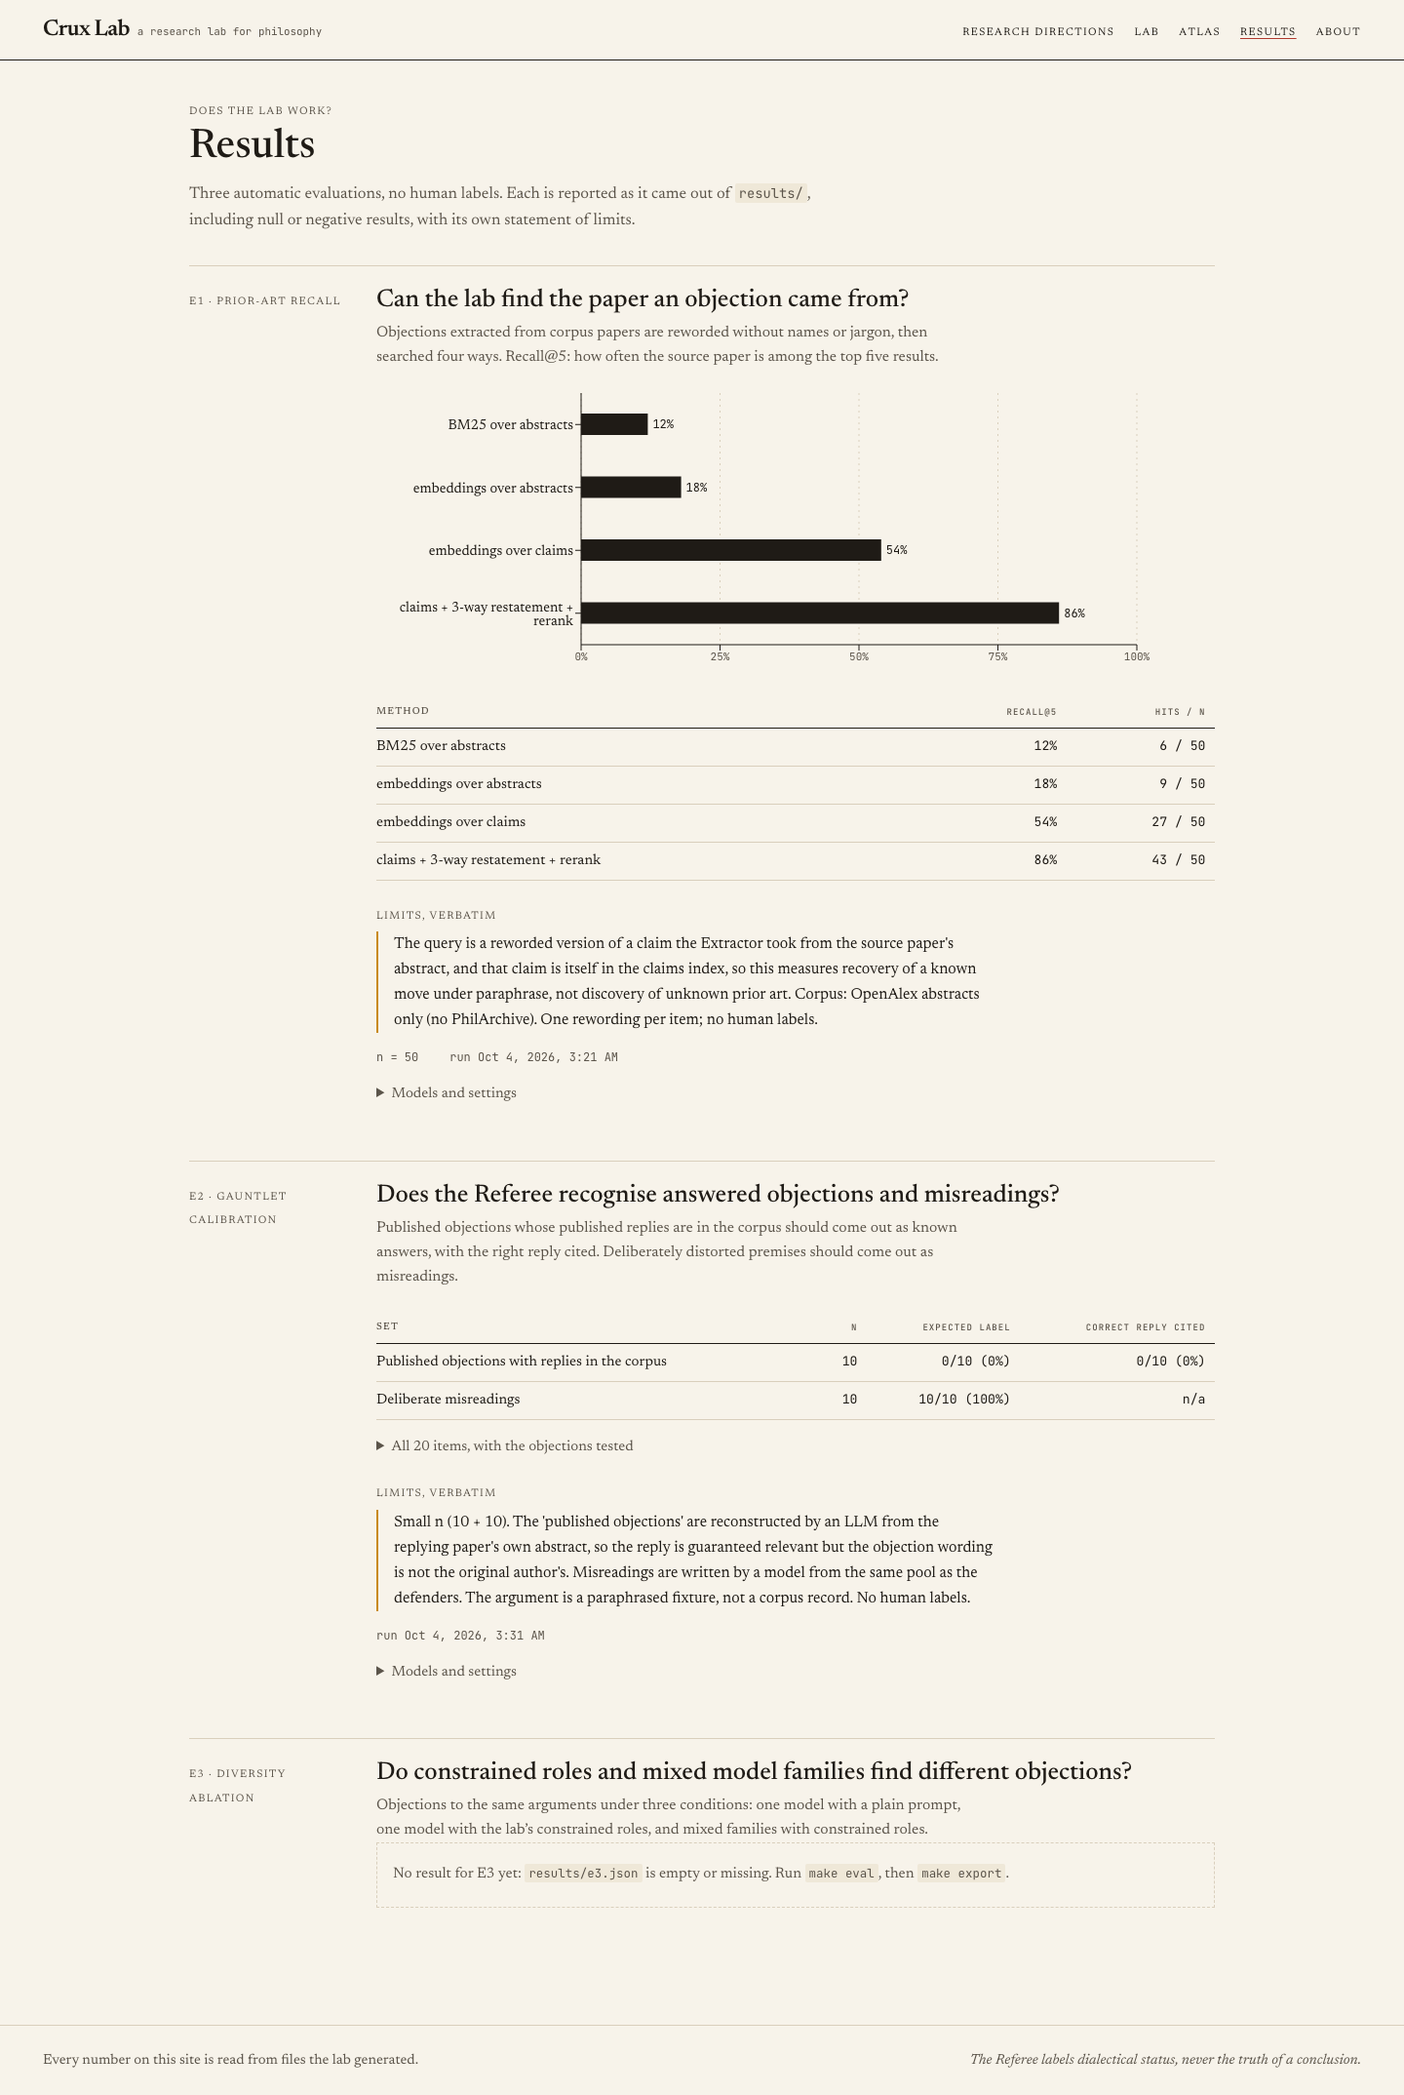
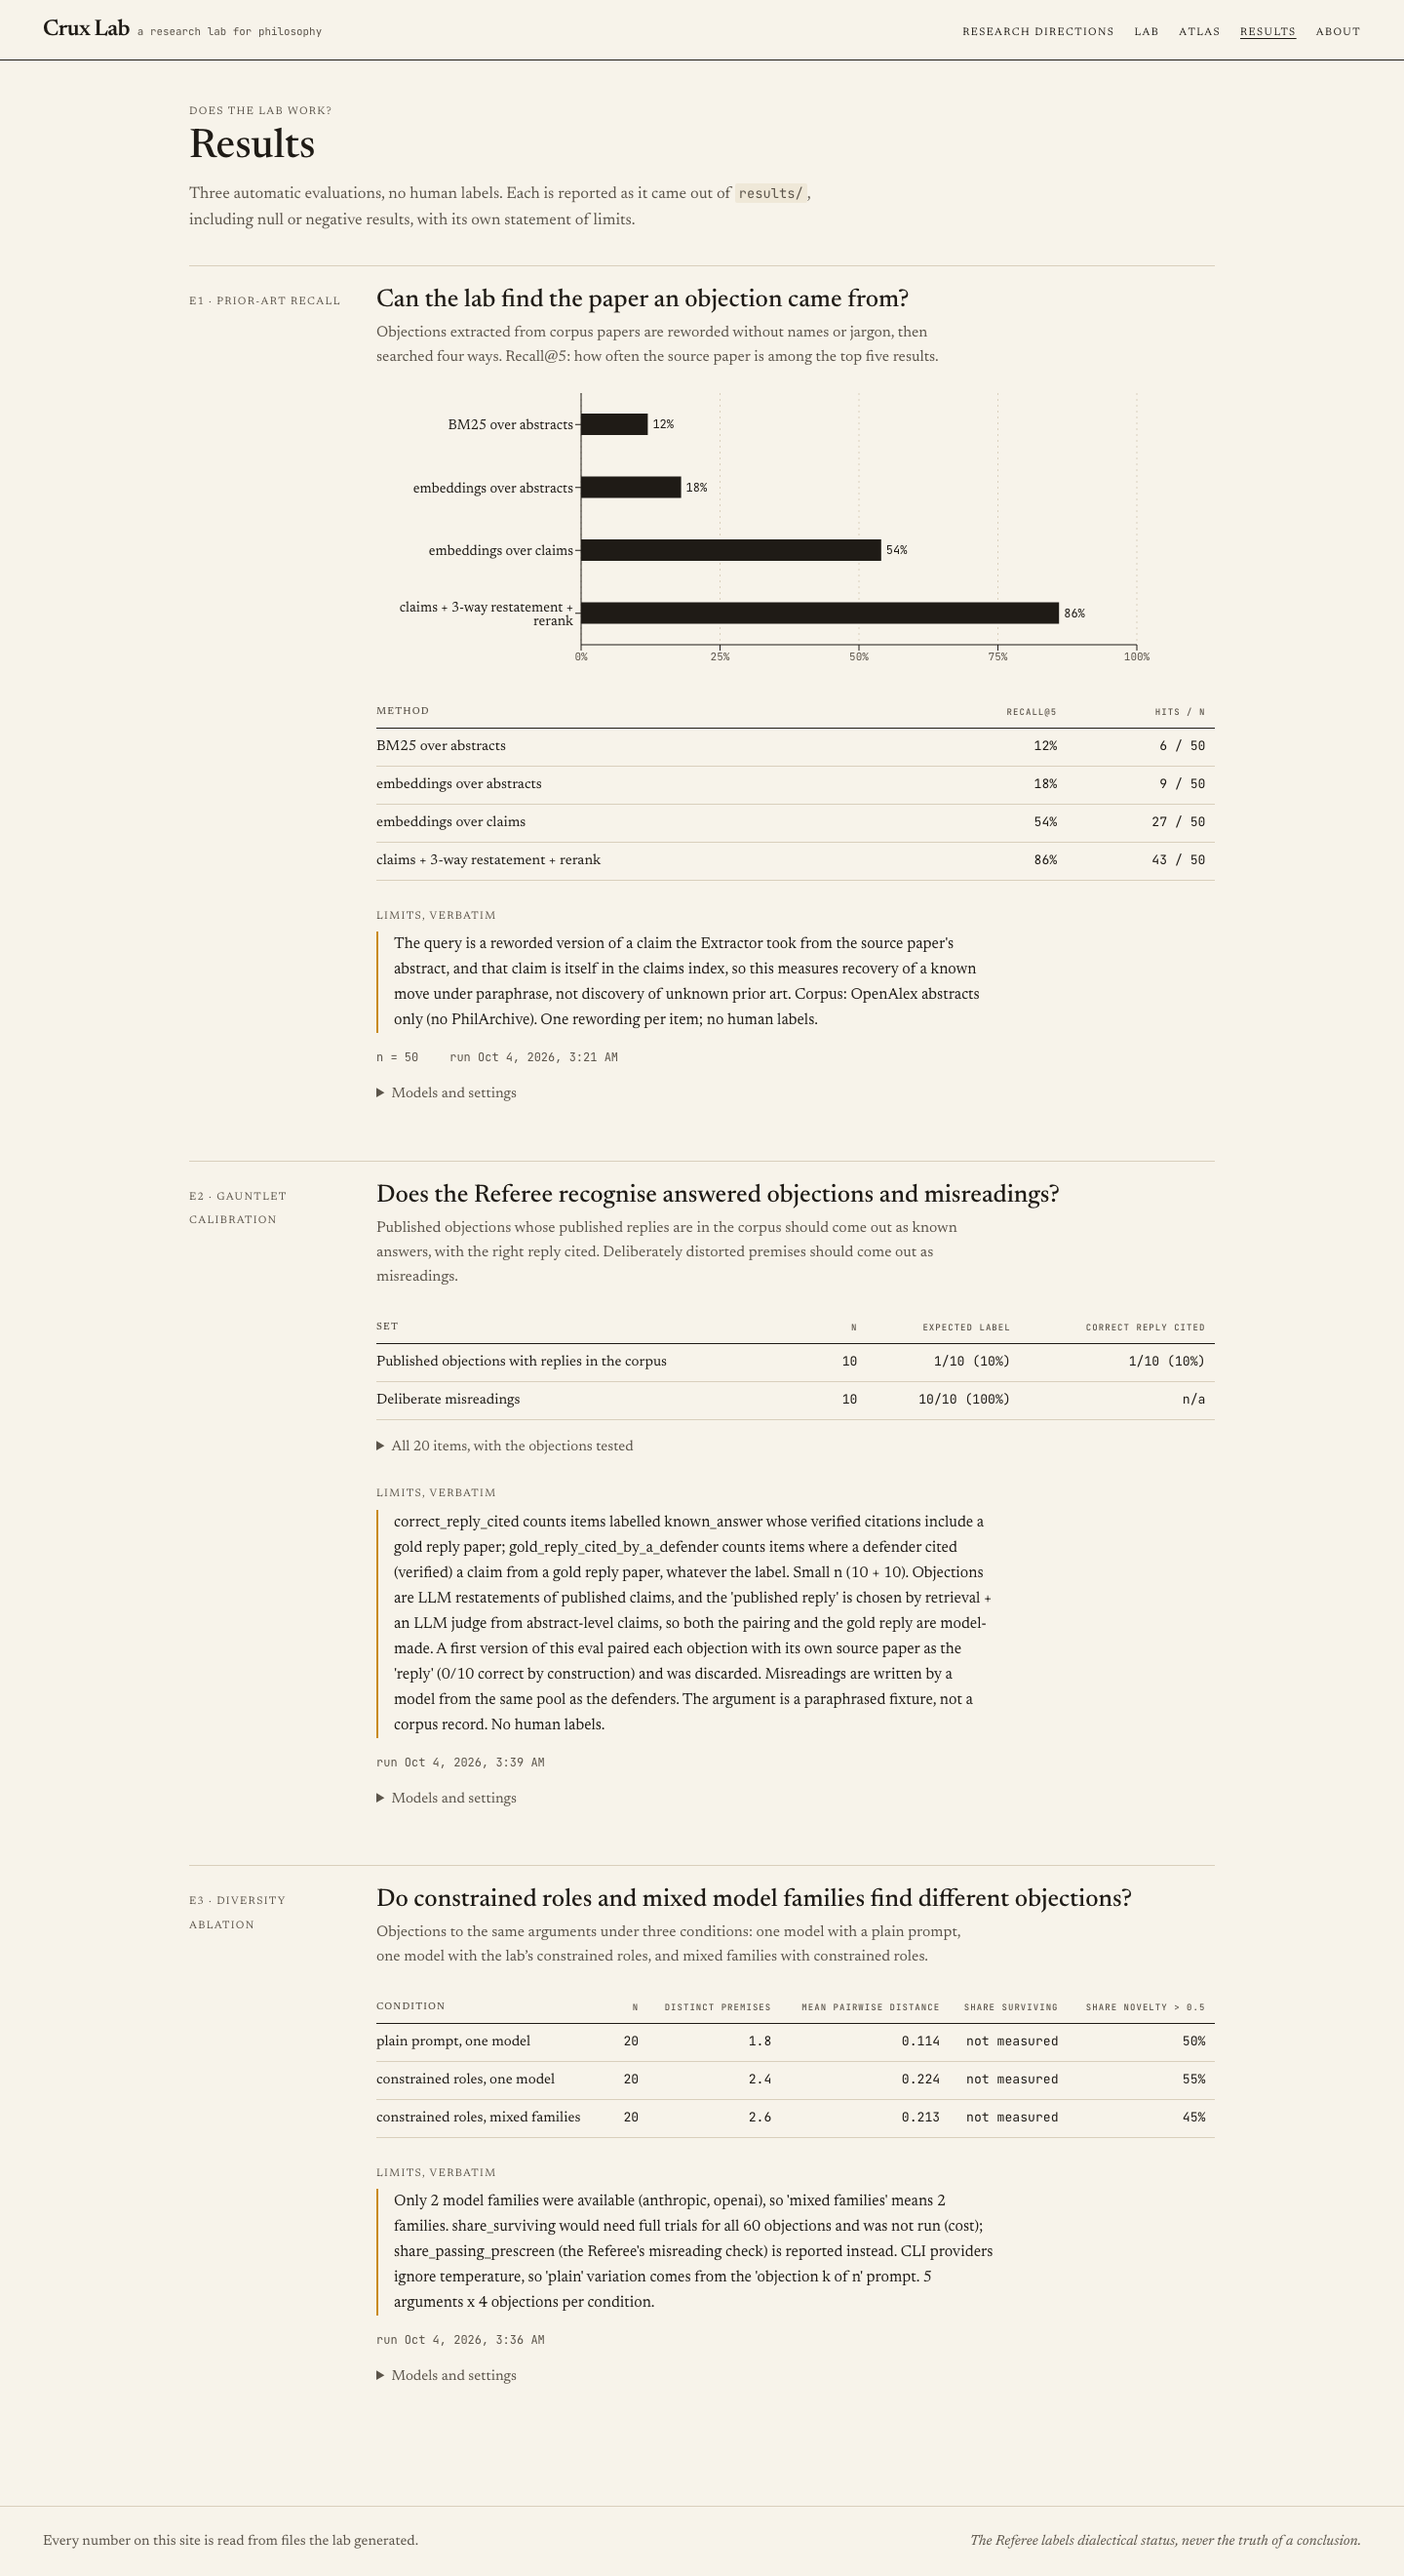
DEMO.md: E2 gold-reply line

diff --git a/scripts/make_demo_md.py b/scripts/make_demo_md.py
@@ -61,7 +61,9 @@ def main() -> None:
         L.append("- E1 prior-art recall@5 (n=%d): " % e1["n"] + "; ".join(f"{m['name']} {m['recall_at_5']:.0%}" for m in e1["methods"]) + ".")
     if e2:
         L.append(f"- E2 calibration: {e2['known_answer']['correct_reply_cited']}/{e2['known_answer']['n']} published objections "
-                 f"labelled known_answer with the right reply cited; {e2['misreading']['caught']}/{e2['misreading']['n']} deliberate misreadings caught.")
+                 f"labelled known_answer with the right reply cited, but a defender cited a verified gold reply in "
+                 f"{e2['known_answer'].get('gold_reply_cited_by_a_defender', '?')}/{e2['known_answer']['n']} (the Referee is conservative); "
+                 f"{e2['misreading']['caught']}/{e2['misreading']['n']} deliberate misreadings caught.")
     if e3:
         L.append("- E3 diversity: " + "; ".join(f"{c['name']}: {c['distinct_premises']} distinct premises, novelty>0.5 share {c['share_novelty_gt_05']:.0%}" for c in e3["conditions"]) + ".")
     L += ["- Read the limits line aloud: the numbers are small and the lab says so.", "",

diff --git a/docs/DEMO.md b/docs/DEMO.md
@@ -27,7 +27,7 @@ Start: `make demo` → http://localhost:4680
 
 ## 1:35 — Does it work? (`/results`)
 - E1 prior-art recall@5 (n=50): BM25 over abstracts 12%; embeddings over abstracts 18%; embeddings over claims 54%; claims + 3-way restatement + rerank 86%.
-- E2 calibration: 1/10 published objections labelled known_answer with the right reply cited; 10/10 deliberate misreadings caught.
+- E2 calibration: 1/10 published objections labelled known_answer with the right reply cited, but a defender cited a verified gold reply in 7/10 (the Referee is conservative); 10/10 deliberate misreadings caught.
 - E3 diversity: plain prompt, one model: 1.8 distinct premises, novelty>0.5 share 50%; constrained roles, one model: 2.4 distinct premises, novelty>0.5 share 55%; constrained roles, mixed families: 2.6 distinct premises, novelty>0.5 share 45%.
 - Read the limits line aloud: the numbers are small and the lab says so.
 
